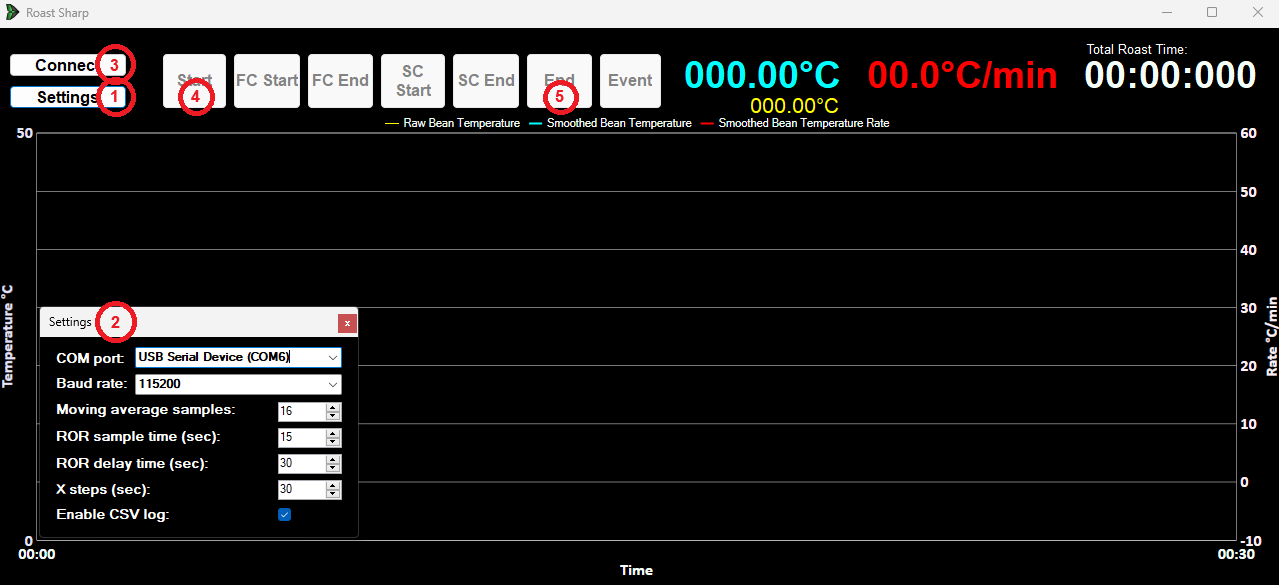
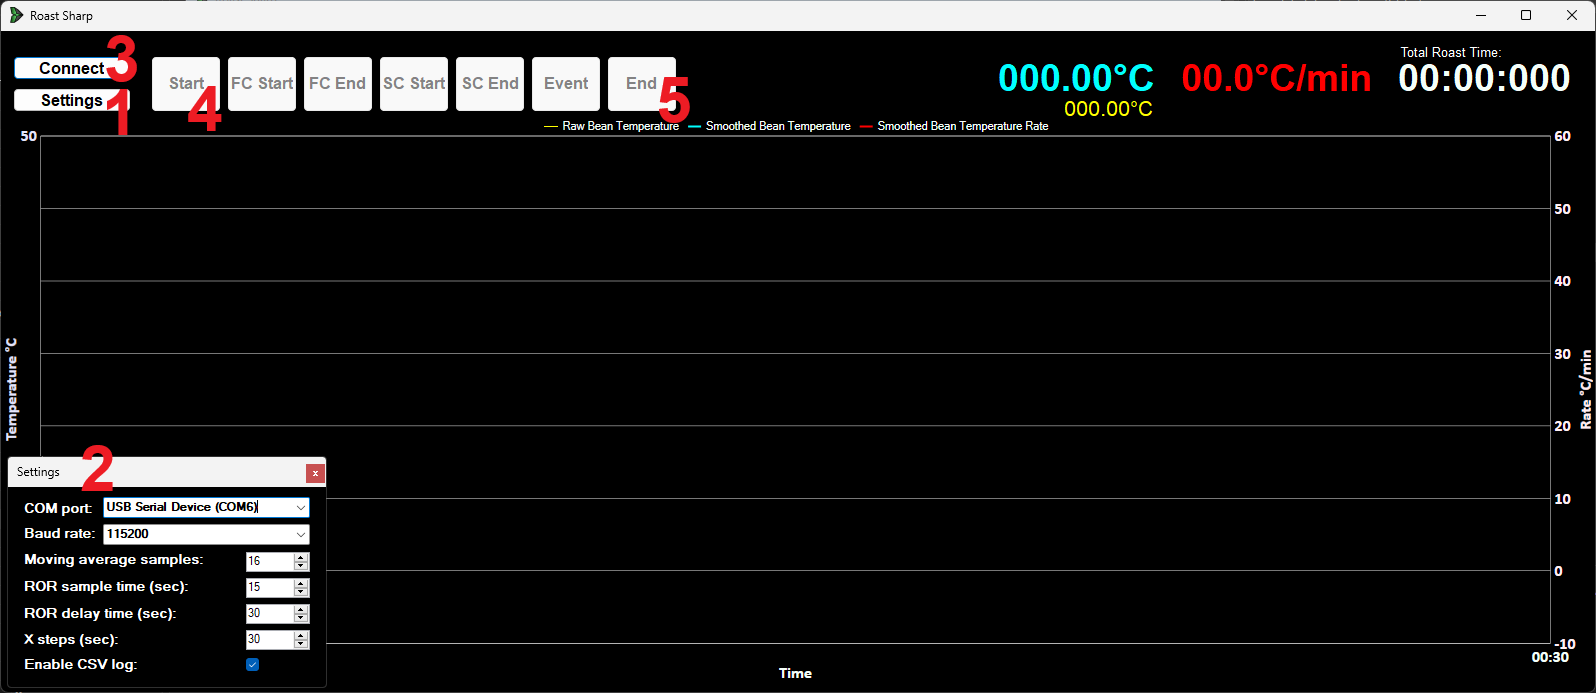
-OCD Changes

diff --git a/RoastSharp/RoastSharpUi.Designer.cs b/RoastSharp/RoastSharpUi.Designer.cs
@@ -83,9 +83,9 @@
             this.StartButton.FlatStyle = System.Windows.Forms.FlatStyle.System;
             this.StartButton.Font = new System.Drawing.Font("Arial", 12F, System.Drawing.FontStyle.Bold, System.Drawing.GraphicsUnit.Point, ((byte)(0)));
             this.StartButton.ForeColor = System.Drawing.SystemColors.InactiveCaptionText;
-            this.StartButton.Location = new System.Drawing.Point(165, 25);
+            this.StartButton.Location = new System.Drawing.Point(150, 25);
             this.StartButton.Name = "StartButton";
-            this.StartButton.Size = new System.Drawing.Size(65, 56);
+            this.StartButton.Size = new System.Drawing.Size(70, 56);
             this.StartButton.TabIndex = 3;
             this.StartButton.Text = "Start";
             this.StartButton.UseVisualStyleBackColor = false;
@@ -173,9 +173,9 @@
             this.EventButton.FlatStyle = System.Windows.Forms.FlatStyle.System;
             this.EventButton.Font = new System.Drawing.Font("Arial", 12F, System.Drawing.FontStyle.Bold, System.Drawing.GraphicsUnit.Point, ((byte)(0)));
             this.EventButton.ForeColor = System.Drawing.SystemColors.InactiveCaptionText;
-            this.EventButton.Location = new System.Drawing.Point(602, 25);
+            this.EventButton.Location = new System.Drawing.Point(530, 25);
             this.EventButton.Name = "EventButton";
-            this.EventButton.Size = new System.Drawing.Size(63, 56);
+            this.EventButton.Size = new System.Drawing.Size(70, 56);
             this.EventButton.TabIndex = 10;
             this.EventButton.Text = "Event";
             this.EventButton.UseVisualStyleBackColor = false;
@@ -189,9 +189,9 @@
             this.EndButton.FlatStyle = System.Windows.Forms.FlatStyle.System;
             this.EndButton.Font = new System.Drawing.Font("Arial", 12F, System.Drawing.FontStyle.Bold, System.Drawing.GraphicsUnit.Point, ((byte)(0)));
             this.EndButton.ForeColor = System.Drawing.SystemColors.InactiveCaptionText;
-            this.EndButton.Location = new System.Drawing.Point(529, 25);
+            this.EndButton.Location = new System.Drawing.Point(606, 25);
             this.EndButton.Name = "EndButton";
-            this.EndButton.Size = new System.Drawing.Size(67, 56);
+            this.EndButton.Size = new System.Drawing.Size(70, 56);
             this.EndButton.TabIndex = 9;
             this.EndButton.Text = "End";
             this.EndButton.UseVisualStyleBackColor = false;
@@ -205,9 +205,9 @@
             this.ScEndButton.FlatStyle = System.Windows.Forms.FlatStyle.System;
             this.ScEndButton.Font = new System.Drawing.Font("Arial", 12F, System.Drawing.FontStyle.Bold, System.Drawing.GraphicsUnit.Point, ((byte)(0)));
             this.ScEndButton.ForeColor = System.Drawing.SystemColors.InactiveCaptionText;
-            this.ScEndButton.Location = new System.Drawing.Point(455, 25);
+            this.ScEndButton.Location = new System.Drawing.Point(454, 25);
             this.ScEndButton.Name = "ScEndButton";
-            this.ScEndButton.Size = new System.Drawing.Size(68, 56);
+            this.ScEndButton.Size = new System.Drawing.Size(70, 56);
             this.ScEndButton.TabIndex = 8;
             this.ScEndButton.Text = "SC End";
             this.ScEndButton.UseVisualStyleBackColor = false;
@@ -221,9 +221,9 @@
             this.ScStartButton.FlatStyle = System.Windows.Forms.FlatStyle.System;
             this.ScStartButton.Font = new System.Drawing.Font("Arial", 12F, System.Drawing.FontStyle.Bold, System.Drawing.GraphicsUnit.Point, ((byte)(0)));
             this.ScStartButton.ForeColor = System.Drawing.SystemColors.InactiveCaptionText;
-            this.ScStartButton.Location = new System.Drawing.Point(383, 25);
+            this.ScStartButton.Location = new System.Drawing.Point(378, 25);
             this.ScStartButton.Name = "ScStartButton";
-            this.ScStartButton.Size = new System.Drawing.Size(66, 56);
+            this.ScStartButton.Size = new System.Drawing.Size(70, 56);
             this.ScStartButton.TabIndex = 7;
             this.ScStartButton.Text = "SC Start";
             this.ScStartButton.UseVisualStyleBackColor = false;
@@ -237,9 +237,9 @@
             this.FcEndButton.FlatStyle = System.Windows.Forms.FlatStyle.System;
             this.FcEndButton.Font = new System.Drawing.Font("Arial", 12F, System.Drawing.FontStyle.Bold, System.Drawing.GraphicsUnit.Point, ((byte)(0)));
             this.FcEndButton.ForeColor = System.Drawing.SystemColors.InactiveCaptionText;
-            this.FcEndButton.Location = new System.Drawing.Point(310, 25);
+            this.FcEndButton.Location = new System.Drawing.Point(302, 25);
             this.FcEndButton.Name = "FcEndButton";
-            this.FcEndButton.Size = new System.Drawing.Size(67, 56);
+            this.FcEndButton.Size = new System.Drawing.Size(70, 56);
             this.FcEndButton.TabIndex = 6;
             this.FcEndButton.Text = "FC End";
             this.FcEndButton.UseVisualStyleBackColor = false;
@@ -253,9 +253,9 @@
             this.FcStartButton.FlatStyle = System.Windows.Forms.FlatStyle.System;
             this.FcStartButton.Font = new System.Drawing.Font("Arial", 12F, System.Drawing.FontStyle.Bold, System.Drawing.GraphicsUnit.Point, ((byte)(0)));
             this.FcStartButton.ForeColor = System.Drawing.SystemColors.InactiveCaptionText;
-            this.FcStartButton.Location = new System.Drawing.Point(236, 25);
+            this.FcStartButton.Location = new System.Drawing.Point(226, 25);
             this.FcStartButton.Name = "FcStartButton";
-            this.FcStartButton.Size = new System.Drawing.Size(68, 56);
+            this.FcStartButton.Size = new System.Drawing.Size(70, 56);
             this.FcStartButton.TabIndex = 5;
             this.FcStartButton.Text = "FC Start";
             this.FcStartButton.UseVisualStyleBackColor = false;
